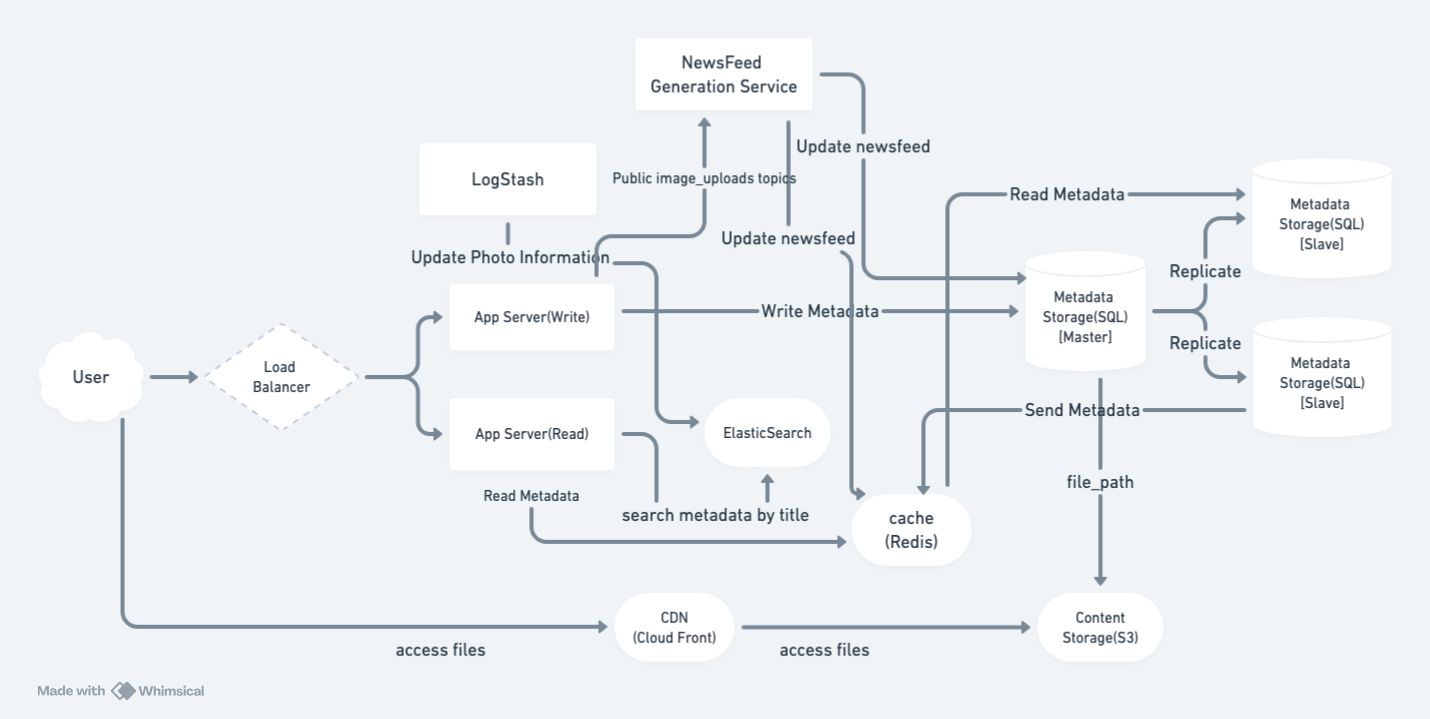
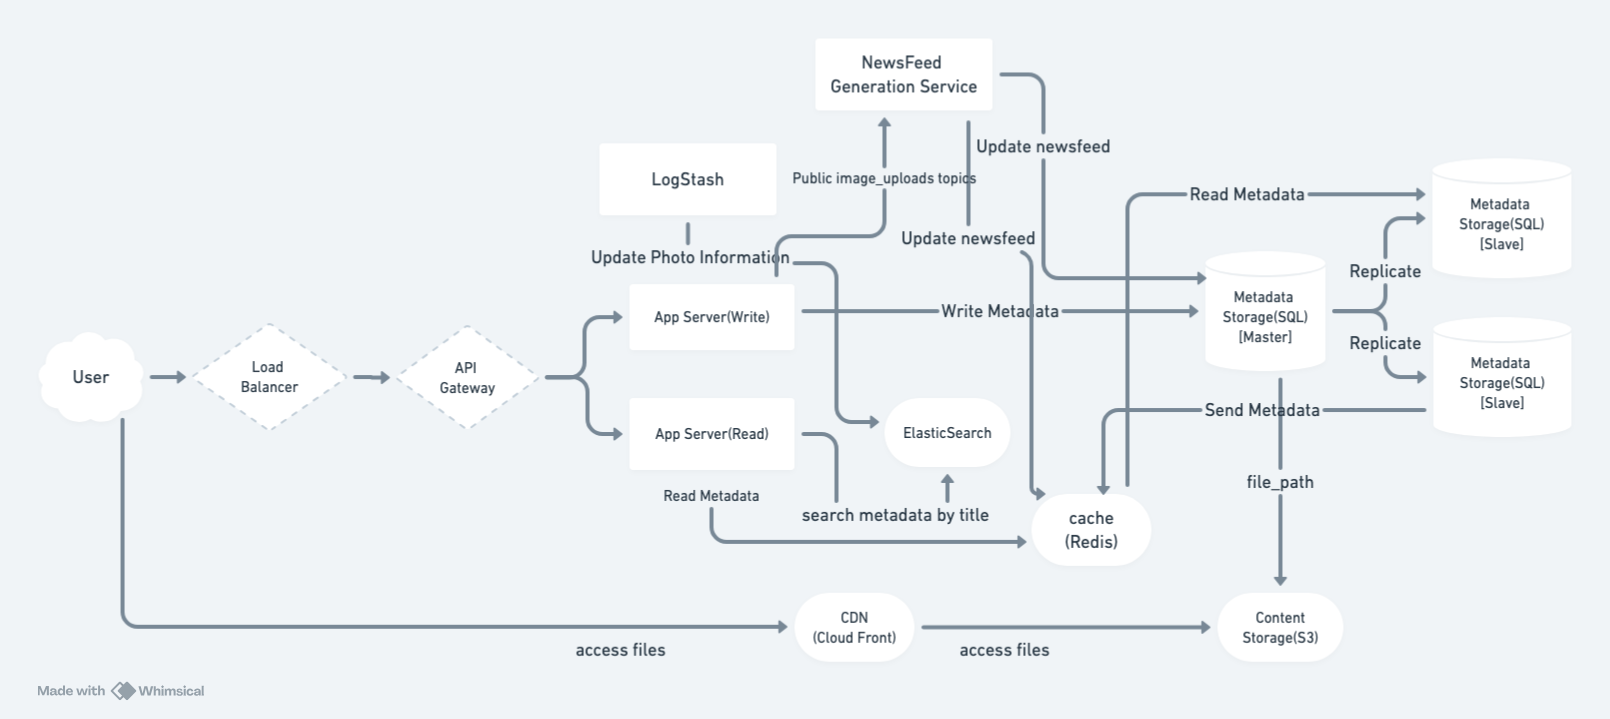
[배포] Notion 변경 사항 저장

diff --git a/_posts/2024-08-07-[SystemDesign-Instagram]-System-flows-and-High-Level-Design.md b/_posts/2024-08-07-[SystemDesign-Instagram]-System-flows-and-High-Level-Design.md
@@ -7,83 +7,93 @@ categories: [SystemDesign, Problems, Instagram, ]
 ---
 
 
-## 1. Users
+### 1. Users
 
 - Multiple users accessing the system.
 
-### 2. Load Balancer
+#### 2. Load Balancer
 
-- Distributes incoming requests to various servers to handle large numbers of users simultaneously.
+- **Responsibilities:**
+	- Distributes incoming requests across multiple API Gateway instances.
+	- Ensures no single API Gateway instance is overwhelmed.
+	- Performs basic health checks to route traffic only to healthy instances.
 
-### 3. Upload Image Request Server
+#### 3. API Gateway
 
-- Handles image upload requests from users.
-- Interacts with:
-	- **Master Database** for writing metadata and reading confirmation.
-	- **Cache (LRU with TTL)** to store frequently accessed metadata temporarily.
-	- **Amazon S3** to generate pre-signed URLs for direct uploads by clients.
-	- **Kafka Producer** to publish messages to Kafka topics.
+- **Responsibilities:**
+	- Handles authentication and authorization using JWT tokens.
+	- Enforces rate limiting, throttling, and request validation.
+	- Routes requests to the appropriate backend services.
+	- Applies security policies, such as IP whitelisting/blacklisting and payload inspection.
+	- Logs and monitors requests for auditing and identifying abuse patterns.
 
-### 4. Download Image Request Server
+#### 4. Backend Services
 
-- Handles image download requests from users.
-- Interacts with:
-	- **Slave Database** for reading metadata.
-	- **Cache (LRU with TTL)** to retrieve frequently accessed metadata.
-	- Provides pre-signed URLs or direct URLs to **Amazon CloudFront** for image delivery.
+- Divided into specific services, each with distinct responsibilities.
 
-### 5. Master Database
+#### 4.1 Upload Image Request Server
+
+- **Responsibilities:**
+	- Handles image upload requests from users.
+	- Interacts with:
+		- **Master Database** for writing metadata and reading confirmation.
+		- **Cache (LRU with TTL)** to store frequently accessed metadata temporarily.
+		- **Amazon S3** to generate pre-signed URLs for direct uploads by clients.
+		- **Kafka Producer** to publish messages to Kafka topics.
+
+#### 4.2 Download Image Request Server
+
+- **Responsibilities:**
+	- Handles image download requests from users.
+	- Interacts with:
+		- **Slave Database** for reading metadata.
+		- **Cache (LRU with TTL)** to retrieve frequently accessed metadata.
+		- Provides pre-signed URLs or direct URLs to **Amazon CloudFront** for image delivery.
+
+#### 5. Master Database
 
 - Handles all write operations and reads for confirmation.
 - Replicates data to one or more slave databases to ensure data consistency and availability.
 
-### 6. Slave Database(s)
+#### 6. Slave Database(s)
 
 - Handles read operations to offload read traffic from the master database.
 - Ensures high availability and load distribution for read requests.
 
-### 7. Data Consistency Mechanism
+#### 7. Data Consistency Mechanism
 
-- **Replication Lag Monitoring**: Continuously monitor replication lag between master and slave databases to ensure timely data consistency.
-- **Fallback Mechanism**: In case of significant lag, redirect read requests temporarily to the master database.
-- **Eventual Consistency Handling**: Implement strategies to handle eventual consistency scenarios, where data may take some time to propagate to slave databases.
+- **Replication Lag Monitoring:** Continuously monitor replication lag between master and slave databases to ensure timely data consistency.
+- **Fallback Mechanism:** In case of significant lag, redirect read requests temporarily to the master database.
+- **Eventual Consistency Handling:** Implement strategies to handle eventual consistency scenarios, where data may take some time to propagate to slave databases.
 
-### 8. Cache (LRU with TTL)
+#### 8. Cache (LRU with TTL)
 
 - Stores frequently accessed metadata to improve performance.
 - Implements a TTL mechanism to automatically expire and remove outdated entries.
-- **Cache Invalidation**: Implement cache invalidation strategies to ensure consistency between cache and database.
+- **Cache Invalidation:** Implement cache invalidation strategies to ensure consistency between cache and database.
 
-### 9. Amazon S3
+#### 9. Amazon S3
 
 - Stores image files securely and scalably.
 - Provides pre-signed URLs for direct uploads and access.
 
-### 10. Amazon CloudFront
+#### 10. Amazon CloudFront
 
 - Acts as a Content Delivery Network (CDN) to deliver images quickly to users across the globe.
 
-### 11. Content Delivery Optimization
+#### 11. Scalability
 
-- **Edge Locations**: Use CloudFront edge locations to reduce latency by serving content from locations closer to the user.
-- **Caching Policies**: Configure appropriate caching policies for static content like images to reduce load on the origin servers.
-- **Compression**: Use Gzip or Brotli compression to reduce the size of transferred content, improving load times.
-- **Optimized Media Formats**: Use efficient image formats (e.g., WebP) to reduce file sizes without compromising quality.
-- **Content Versioning**: Implement versioning for static content to manage cache invalidation and ensure users get the latest content.
+- **Cloud-Based Server Scaling:** Utilize cloud services such as AWS, Azure, or Google Cloud Platform to dynamically scale the upload and download servers based on demand.
+	- **Auto-Scaling:** Implement auto-scaling policies to automatically adjust the number of server instances in response to traffic load.
+	- **Load Balancer:** Ensure the load balancer can handle scaling by distributing traffic evenly across the dynamically changing pool of server instances.
+	- **Managed Databases:** Use managed database services that can automatically scale, such as Amazon RDS, Azure SQL Database, or Google Cloud SQL.
 
-### 12. Scalability
+#### 12. Newsfeed Generation Service
 
-- **Cloud-Based Server Scaling**: Utilize cloud services such as AWS, Azure, or Google Cloud Platform to dynamically scale the upload and download servers based on demand.
-	- **Auto-Scaling**: Implement auto-scaling policies to automatically adjust the number of server instances in response to traffic load.
-	- **Load Balancer**: Ensure the load balancer can handle scaling by distributing traffic evenly across the dynamically changing pool of server instances.
-	- **Managed Databases**: Use managed database services that can automatically scale, such as Amazon RDS, Azure SQL Database, or Google Cloud SQL.
-
-### 13. Newsfeed Generation Service
-
-- **Kafka Producer**: Modify the Upload Image Request Server to act as a Kafka producer that publishes messages to a Kafka topic `image_uploads` after uploading an image and saving metadata.
-- **Kafka Consumer**: Implement the Newsfeed Generation Service as a Kafka consumer that subscribes to the `image_uploads` topic.
-- **Message Processing**: On receiving a message, the Newsfeed Generation Service updates the newsfeed table in the metadata database and updates the cache.
-- **Kafka Cluster**: Set up a Kafka cluster with sufficient brokers to handle your expected load and ensure high availability.
+- **Kafka Producer:** Modify the Upload Image Request Server to act as a Kafka producer that publishes messages to a Kafka topic `image_uploads` after uploading an image and saving metadata.
+- **Kafka Consumer:** Implement the Newsfeed Generation Service as a Kafka consumer that subscribes to the `image_uploads` topic.
+- **Message Processing:** On receiving a message, the Newsfeed Generation Service updates the newsfeed table in the metadata database and updates the cache.
+- **Kafka Cluster:** Set up a Kafka cluster with sufficient brokers to handle your expected load and ensure high availability.
 
 ![0](/assets/img/2024-08-07-[SystemDesign-Instagram]-System-flows-and-High-Level-Design.md/0.png)
 

diff --git a/_posts/2024-08-07-[SystemDesign-Instagram]-API-Design.md b/_posts/2024-08-07-[SystemDesign-Instagram]-API-Design.md
@@ -13,20 +13,10 @@ categories: [SystemDesign, Problems, Instagram, ]
 - **Method:** `POST`
 - **Description:** Create a new post and upload a photo to Amazon S3.
 - **Request Header:**
-	- `Authorization: Bearer jwt_token`
+	- Content-Type: multipart/form-data
 - **Request Body (multipart/form-data):**
 	- `content_name:` The name of the content (string).
 	- `photo:` The photo file to upload (file).
-- **Request Header:**
-
-
-{% raw %}
-```text
-Content-Type: multipart/form-data
-```
-{% endraw %}
-
-
 - **Response Body:**
 
 
@@ -47,8 +37,6 @@ Content-Type: multipart/form-data
 - **Endpoint:** `GET /api/v1/instagram`
 - **Method:** `GET`
 - **Description:** Retrieve content, `content_title` is optional.
-- **Request Header:**
-	- `Authorization: Bearer jwt_token`
 - **Request Parameters:**
 	- Optional: `content_title=title`
 	- Pagination: `page=<page_number>&size=<page_size>`
@@ -87,8 +75,6 @@ Content-Type: multipart/form-data
 - **Endpoint:** `DELETE /api/v1/instagram/{content_id}`
 - **Method:** `DELETE`
 - **Description:** Delete a post by `content_id`.
-- **Request Header:**
-	- `Authorization: Bearer jwt_token`
 - **Response Body:**
 
 	
@@ -107,8 +93,6 @@ Content-Type: multipart/form-data
 - **Endpoint:** `POST /api/v1/instagram/follow`
 - **Method:** `POST`
 - **Description:** Follow/Unfollow a user.
-- **Request Header:**
-	- `Authorization: Bearer jwt_token`
 - **Request Body:**
 
 	
@@ -140,8 +124,6 @@ Content-Type: multipart/form-data
 - **Endpoint:** `GET /api/v1/instagram/newsfeed`
 - **Method:** `GET`
 - **Description:** Get news feed.
-- **Request Header:**
-	- `Authorization: Bearer jwt_token`
 - **Request Parameters:**
 	- Pagination: `page=<page_number>&size=<page_size>`
 - **Response Body:**

diff --git a/_posts/2024-08-07-[SystemDesign-URL-Shortener]-API-Design.md b/_posts/2024-08-07-[SystemDesign-URL-Shortener]-API-Design.md
@@ -7,16 +7,16 @@ categories: [SystemDesign, Problems, UrlShortener, ]
 ---
 
 
+### 1. Shorten Url
 
-{% raw %}
-```markdown
-```
-{% endraw %}
+- **Endpoint:** `POST /api/v1/url`
+- **Method:** `POST`
+- **Description:** Created a new shorten url.
+- **Request Header:**
 
+	`Authorization: Bearer jwt_token`
 
-
-**Request Body:**
-
+- **Request Body:**
 
 
 {% raw %}
@@ -37,6 +37,7 @@ categories: [SystemDesign, Problems, UrlShortener, ]
 
 {% raw %}
 ```json
+json코드 복사
 {
   "url_key": 123,
   "original_url": "http://example.com",
@@ -60,7 +61,7 @@ categories: [SystemDesign, Problems, UrlShortener, ]
 - **401 Unauthorized:** Invalid or missing `api_dev_key`.
 - **429 Too Many Requests:** Rate limit exceeded.
 
-#### 2. Get Original URL API
+#### 2. Get Shorten Url
 
 
 **Endpoint:** `/api/v1/url/{url_key}`
@@ -75,7 +76,7 @@ categories: [SystemDesign, Problems, UrlShortener, ]
 
 {% raw %}
 ```json
-
+json코드 복사
 {
   "api_dev_key": "your_api_dev_key_here"
 }
@@ -94,7 +95,7 @@ categories: [SystemDesign, Problems, UrlShortener, ]
 #### 3. Redirect to Original URL API
 
 
-**Endpoint:** `/{url_key}`
+**Endpoint:** `/{url_id}`
 
 
 **Method:** `GET`
@@ -109,7 +110,7 @@ categories: [SystemDesign, Problems, UrlShortener, ]
 #### 4. Delete Shortened URL API
 
 
-**Endpoint:** `/api/v1/url/{url_key}`
+**Endpoint:** `/api/v1/url/{url_id}`
 
 
 **Method:** `DELETE`
@@ -121,7 +122,6 @@ categories: [SystemDesign, Problems, UrlShortener, ]
 
 {% raw %}
 ```json
-
 {
   "api_dev_key": "your_api_dev_key_here"
 }

diff --git a/_posts/2024-08-08-[기타]-앞으로-업로드-해야-할-부분-정리.md b/_posts/2024-08-08-[기타]-앞으로-업로드-해야-할-부분-정리.md
@@ -20,5 +20,6 @@ categories: [Etc, ]
 | Microservices - Event-Driven Architecture Pattern               | 완료    |
 | Microservices - Command Query Responsibility Segregation (CQRS) |       |
 | Microservices - Configuration Externalization Pattern           |       |
+| 포맷 안맞는 부분 정리                                                    |       |
 
 undefined

diff --git a/_posts/2024-08-07-[SystemDesign]-시스템-용량-측정-방법.md b/_posts/2024-08-07-[SystemDesign]-시스템-용량-측정-방법.md
@@ -7,7 +7,7 @@ categories: [SystemDesign, Basics, ]
 ---
 
 
-# Step 1: Traffic Estimation
+### Step 1: Traffic Estimation
 
 1. **QPS (Queries Per Second) Estimation**:
 	- Calculate the expected number of requests per day.

diff --git a/_posts/2024-08-07-[SystemDesign-URL-Shortener]-Capacity-Estimation.md b/_posts/2024-08-07-[SystemDesign-URL-Shortener]-Capacity-Estimation.md
@@ -7,7 +7,7 @@ categories: [SystemDesign, Problems, UrlShortener, ]
 ---
 
 
-## Step 1: Traffic Estimation
+### Step 1: Traffic Estimation
 
 1. **QPS (Queries Per Second) Estimation**
 
